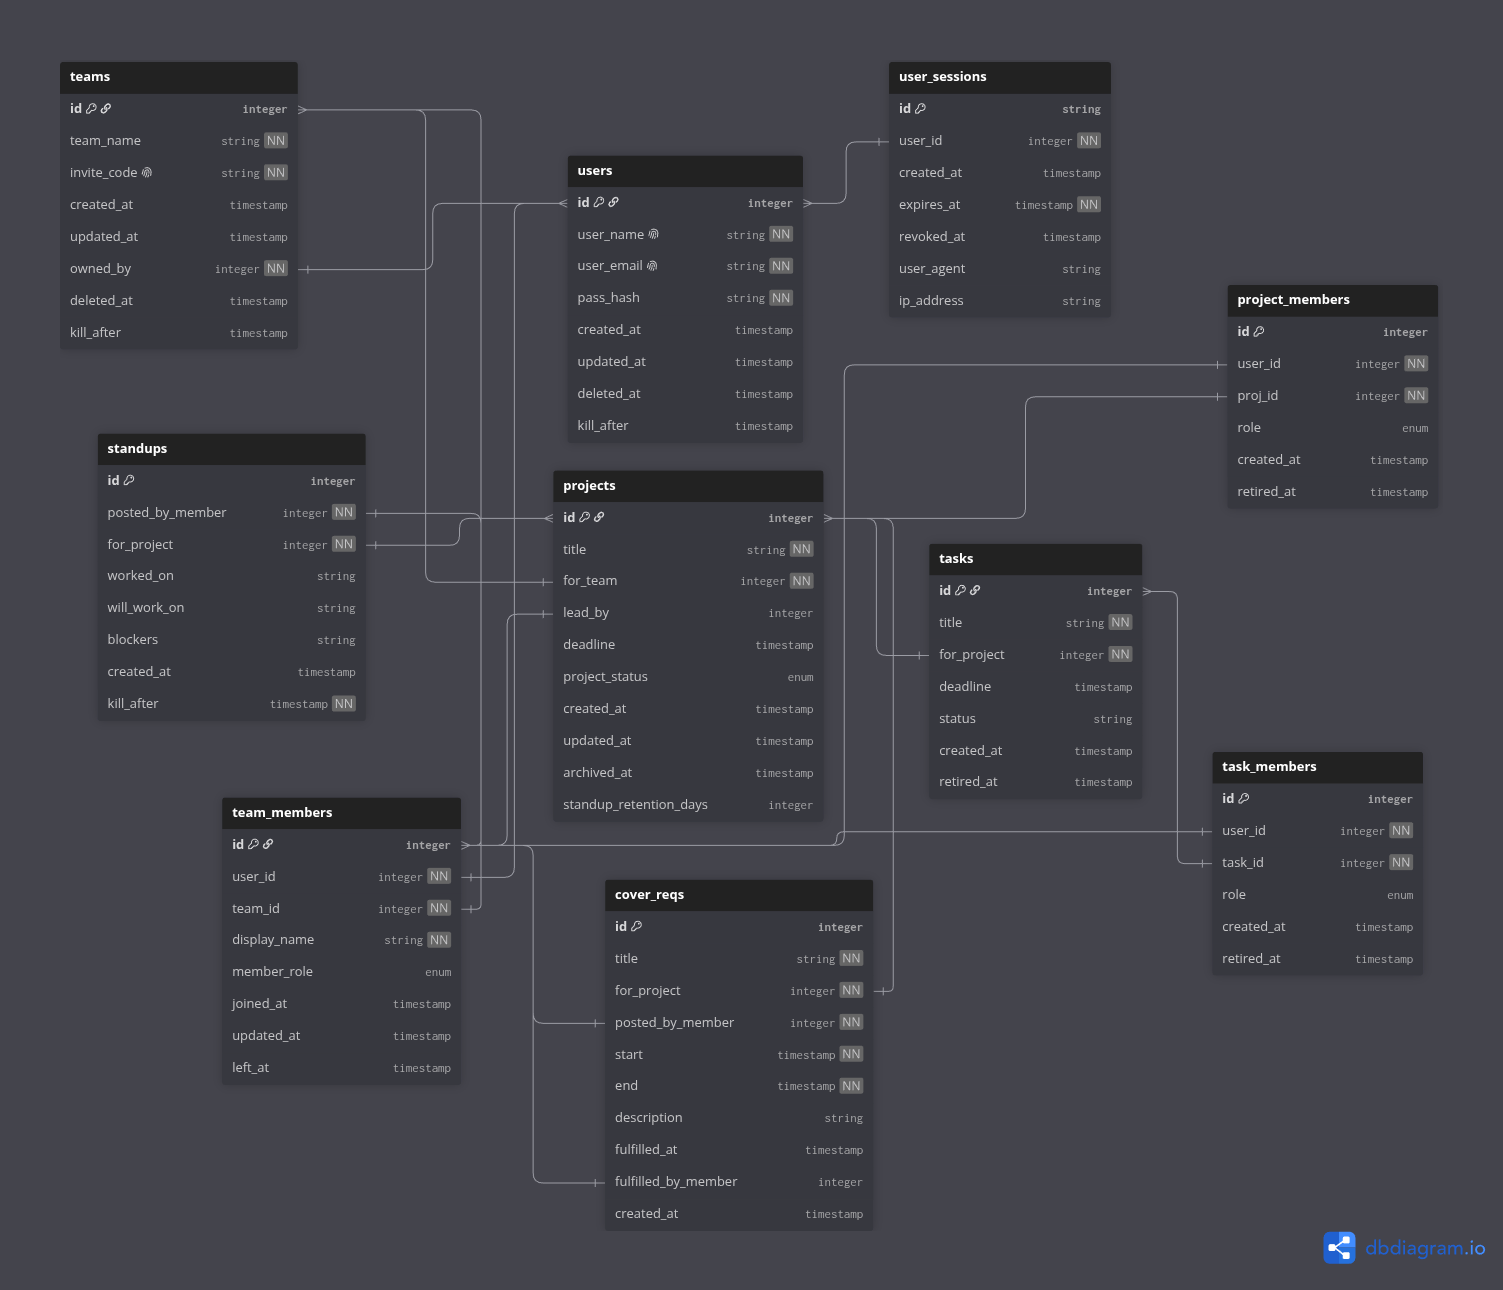
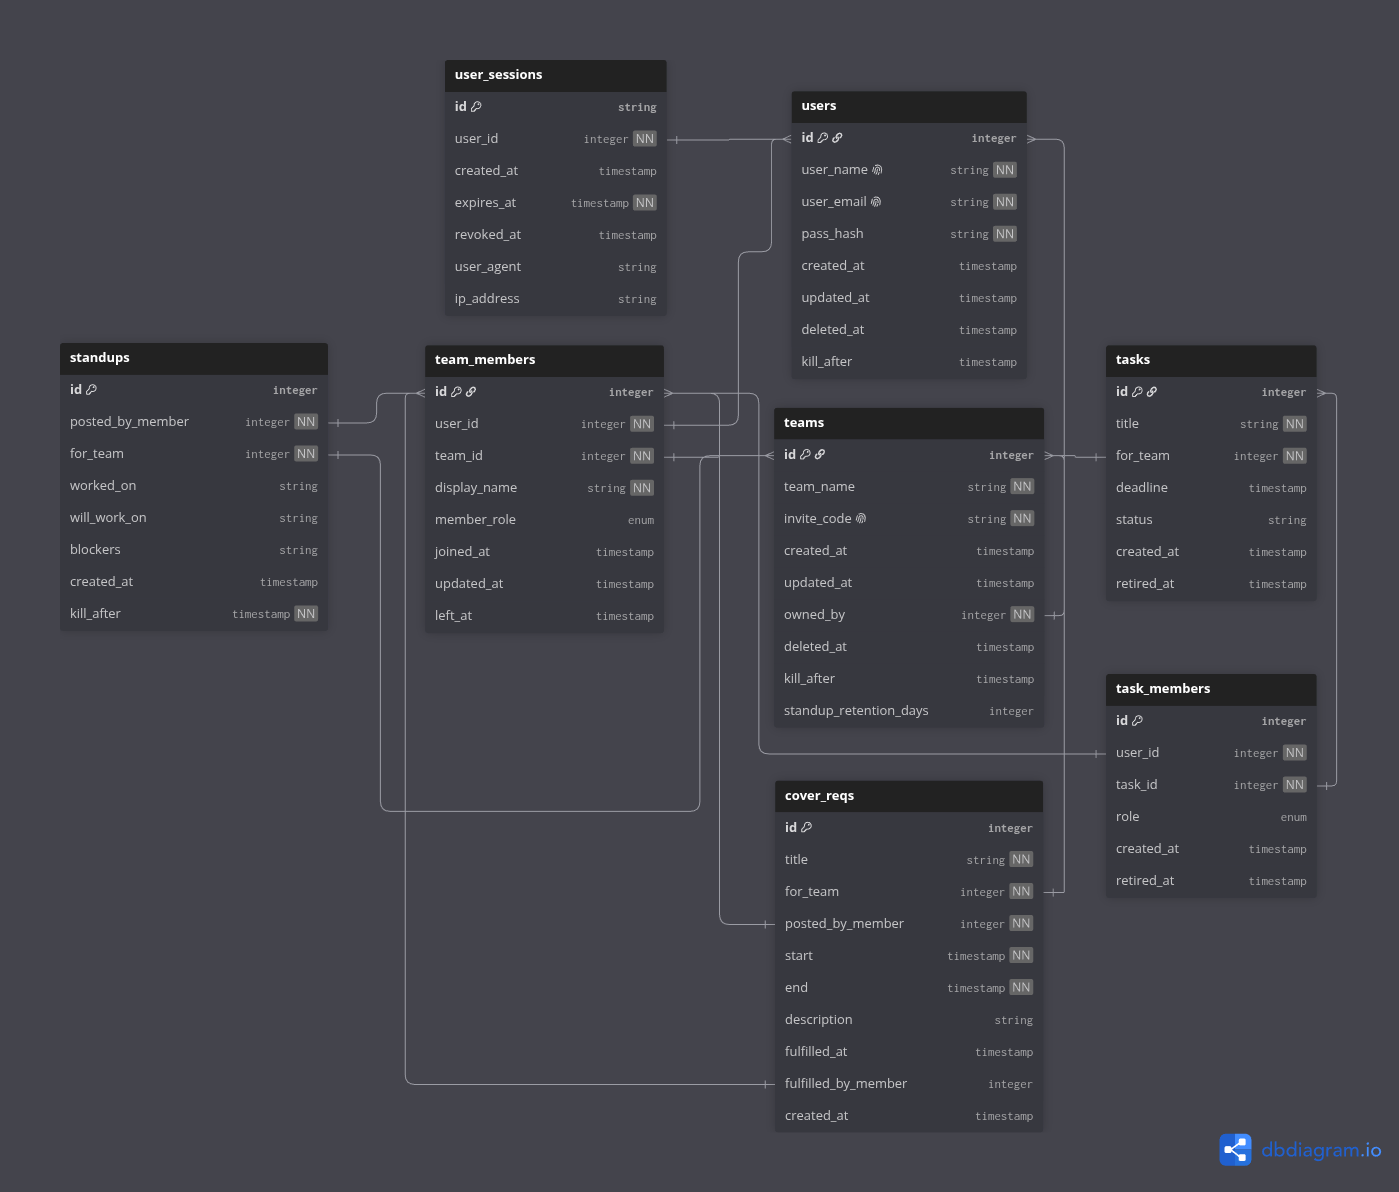
Removed projects and project membership and updated the schema accordingly; updated documentation to reflect changes

diff --git a/__tests__/database.migrate.test.js b/__tests__/database.migrate.test.js
@@ -242,7 +242,7 @@ describe('runDatabaseMigrations', () => {
     });
 
     describe('against the real initial migration', () => {
-        it('successfully applies 001_initial.sql to a fresh database', () => {
+        it('successfully applies 01_initial.sql to a fresh database', () => {
             const db = freshDb();
             const finalVersion = runDatabaseMigrations({ db });
 
@@ -256,7 +256,6 @@ describe('runDatabaseMigrations', () => {
                 'users',
                 'teams',
                 'team_members',
-                'projects',
                 'standups',
                 'user_sessions',
             ]));
@@ -276,7 +275,7 @@ describe('runDatabaseMigrations', () => {
                 'idx_tm_owners',
                 'idx_tm_memberships_user',
                 'idx_tm_memberships_team',
-                'idx_standups_project',
+                'idx_standups_team',
                 'idx_standups_kill_after',
                 'idx_sessions_token',
                 'idx_sessions_user',

diff --git a/docs/database-schema.md b/docs/database-schema.md
@@ -78,31 +78,31 @@ Team-level user profiles, similar to Slack/Discord server profiles. User activit
 
 #### Standups
 
-Standups posted per project that include stand ups and blockers. Assuming user will post both at once, if we want to display stand-ups, blockers separately, they can be derived from this table.
+Standups posted per team that include stand ups and blockers. Assuming user will post both at once, if we want to display stand-ups, blockers separately, they can be derived from this table.
 
-Shape of a standup entry as produced by `createStandup` in `src/standup.js` and stored by `createStandupStore` in `src/standupStore.js`. Phase 1 keeps everything in memory. Phase 2 will move this into a Supabase Postgres table with the same column names (see ADR-0002).
+Shape of a standup entry as produced by `createStandup` in `src/standup.js` and stored by `createStandupStore` in `src/standupStore.js`. The following fields be delivered to the backend for processing.
 
 ##### Fields
 
-| Field         | Type   | Description                                                |
-| ------------- | ------ | ---------------------------------------------------------- |
-| `name`        | string | Team member who submitted the standup                      |
-| `done`        | string | Summary of what they finished since the last standup       |
-| `todo`        | string | What they plan to work on next                             |
-| `blockers`    | string | Anything blocking them, or `"none"`                        |
-| `submittedAt` | string | ISO 8601 UTC timestamp, set automatically at creation time |
+| Field       | Type    | Description                                                                          |
+| ----------- | ------- | ------------------------------------------------------------------------------------ |
+| `posted_by` | integer | ID of the _team member_ who submitted the standup **[given by client]**              |
+| `for_team`  | integer | ID of the team where the standup was submitted **[given by client]**                 |
+| `done`      | string  | Summary of what they finished since the last standup or `"none"` **[given by user]** |
+| `todo`      | string  | What they plan to work on next or `"none"` **[given by user]**                       |
+| `blockers`  | string  | Anything blocking them, or `"none"` **[given by user]**                              |
 
-All fields are required strings. No validation is enforced at this layer since the form (Issue #10) is expected to handle that on input.
+All fields are required. Parsing and type validation will be handled at the API layer.
 
 ##### Example
 
 ```json
 {
-  "name": "Cedric",
+  "posted_by": 66,
+  "for_team": 66,
   "done": "Finished frontend layout",
   "todo": "Working on JSON parser",
-  "blockers": "None",
-  "submittedAt": "2026-05-17T18:00:00.000Z"
+  "blockers": "None"
 }
 ```
 
@@ -110,7 +110,7 @@ All fields are required strings. No validation is enforced at this layer since t
 
 The in-memory store at `src/standupStore.js` exposes:
 
-- `add(name, done, todo, blockers)`: creates a standup and pushes it to the store, returns the new standup
+- `add(posted_by, for_team, name, done, todo, blockers)`: creates a standup and pushes it to the store, returns the new standup
 - `getAll()`: returns all stored standups
 - `serialize()`: returns all standups serialized to pretty-printed JSON
 
@@ -119,36 +119,44 @@ Use `createStandupStore()` for a fresh instance (useful in tests) or import the 
 ```js
 import { standupStore } from './standupStore.js';
 
-standupStore.add('Kyle', 'closed Issue #11', 'pick up Issue #20', 'none');
+standupStore.add(
+  66,
+  66,
+  'Kyle',
+  'closed Issue #11',
+  'pick up Issue #20',
+  'none',
+);
 console.log(standupStore.serialize());
 ```
 
-##### Phase 2 Migration Notes
+##### Derived Fields
 
-When Supabase comes online, the table can be created as:
+The table will be created in the database as:
 
 ```sql
-create table standups (
-  id bigserial primary key,
-  name text not null,
-  done text not null,
-  todo text not null,
-  blockers text not null,
-  submitted_at timestamptz not null default now()
+CREATE TABLE standups (
+    id              INTEGER PRIMARY KEY,
+    posted_by       INTEGER NOT NULL REFERENCES team_members(id) ON DELETE CASCADE,
+    for_team        INTEGER NOT NULL REFERENCES teams(id) ON DELETE CASCADE,
+    worked_on       TEXT    NULL,
+    will_work_on    TEXT    NULL,
+    blocked_by      TEXT    NULL,
+    created_at      TEXT    NOT NULL DEFAULT (datetime('now')),
+    updated_at      TEXT    NOT NULL DEFAULT (datetime('now')),
+    kill_after      TEXT    NULL
 );
 ```
 
+Rows not passed by the frontend (`id`, `created_at`, `updated_at`, `kill_after`) are to be derived in the backend.
+
 ---
 
-**Projects** - projects associated with a certain team, encompasses several tasks and project members. Can have an optional status and deadline, and may be archived and unarchived or hard-deleted from database. May have a leader assigned to it.
+**Tasks** - associated with teams. May have a deadline and/or status attached and may be deactivated/reactivated or hard-deleted.
 
-**Project Members** - a subset of team members; team members associated with a project who may leave or rejoin a project while preserving their activity in said project (activity will be removed on account hard deletion).
+**Task Members** - a subset of team members; team members associated with a task who may assign or unassign themselves to said task while presving activity (activity will be removed on hard account deletion).
 
-**Tasks** - associated with projects. May have a deadline and/or status attached and may be deactivated/reactivated or hard-deleted.
-
-**Task Members** - a subset of project members; project members associated with a task who may assign or unassign themselves to said task while presving activity (activity will be removed on hard account deletion).
-
-**Cover Requests** - associated with a team member and a project. Can be given a modifiable start and end date, but will be hard-deleted after the end date has been passed. Can also be hard-deleted anytime prior by poster of cover request or a project administrator.
+**Cover Requests** - associated with a team member and a team. Can be given a modifiable start and end date, but will be hard-deleted after the end date has been passed. Can also be hard-deleted anytime prior by poster of cover request or a team administrator.
 
 ### Relationships
 
@@ -156,24 +164,22 @@ Sessions <- Users
 
 Teams <- Users
 <br>
-Teams -> Projects <- Team Members
 <br>
-Tasks <- Projects
+Tasks <- Teams
 
 Users -> Team Members <- Teams
 <br>
-Team Members -> Project Members <- Projects
 <br>
-Project Members -> Task Members <- Tasks
+Team Members -> Task Members <- Tasks
 
-Team Members -> Check-Ins <- Projects
+Team Members -> Standups <- Teams
 <br>
-Team Members -> Cover Requests <- Projects
+Team Members -> Cover Requests <- Teams
 
 ### Constraints
 
 - User details are for authentication; in practice users should only see each other's team-specific **Team Member** details
-- Teams own projects, projects own tasks; do not skip the hierarchy
+- Teams own tasks; do not skip the hierarchy
 - Hard-deletion is true deletion; any hard-deleted info is unrecoverable
 - Store all timestamps in UTC for uniformity; only convert to local time when reading to client
 - Soft-deleted/archived rows are strictly read-only unless reactivated
@@ -181,7 +187,7 @@ Team Members -> Cover Requests <- Projects
 
 ### Completion
 
-First draft: v0.1
+First draft: v1
 
 ### To do
 
@@ -190,19 +196,16 @@ Based on our "musts":
 - [x] Users
 - [x] Team memberships
 - [x] Teams
-- [x] Check-ins (standups + mood)
+- [x] Standups
 - [x] Blockers
 - [x] Cover requests
 
 ---
 
 - [x] Relationships between users and teams
-- [x] Relationships between teams and projects
-- [x] Relationships between team members and projects
-- [x] Relationships between projects and tasks
 - [x] Relationships between team members and tasks
-- [x] Relationships between projects and check-ins/cover reqs
-- [x] Relationships between team members and check-ins/cover reqs
+- [x] Relationships between teams and standups/cover reqs
+- [x] Relationships between team members and standups/cover reqs
 
 ### Visualization/Modification
 

diff --git a/docs/backend-foundation.md b/docs/backend-foundation.md
@@ -24,7 +24,7 @@ Direct interaction with the frontend. HTTP parsing and response.
 
 - HTTP method and path
 
-_e.g._ `POST {something o algo}/projects/66/check-ins`
+_e.g._ `POST {something o algo}/teams/66/standups`
 
 - Request body
 
@@ -34,7 +34,7 @@ _e.g._
 
 {
     "posted_by_member" : 66,
-    "for_project" : 66,
+    "for_team" : 66,
     "worked_on" : "Roblox content creation",
     "will_work_on" : "Nothing",
     "blockers" : "My mom"
@@ -55,7 +55,7 @@ Function calls with parsed HTTP parameters as arguments
 
 ### Expected from Service Layer
 
-Return values of frontend-ready dictionaries and/or exceptions (e.g. "Project not found")
+Return values of frontend-ready dictionaries and/or exceptions (e.g. "Team not found")
 
 ### Expected to Frontend
 
@@ -86,7 +86,7 @@ Function calls with validated arguments
 - Assume all required fields are present
   <br>
 - Do not assume user has permission
-- Do not assume that the associated entity (e.g. check-in) exists
+- Do not assume that the associated entity (e.g. standup) exists
 
 ### Expected to Data Repo
 
@@ -94,7 +94,7 @@ Single-table CRUD function calls
 
 #### _Notes_
 
-- User team/project/task membership and permissions should be verified before calling upon data repo
+- User team/task membership and permissions should be verified before calling upon data repo
 - Compute derived fields like `kill_after`
 - Decide WHICH database accesses are made
 - Function calls should access one table at a time for simplicity
